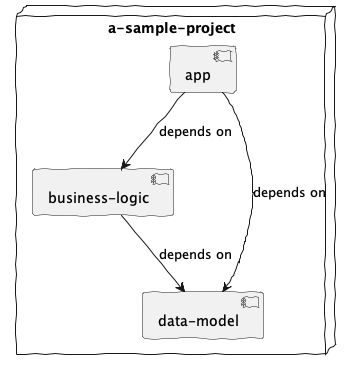
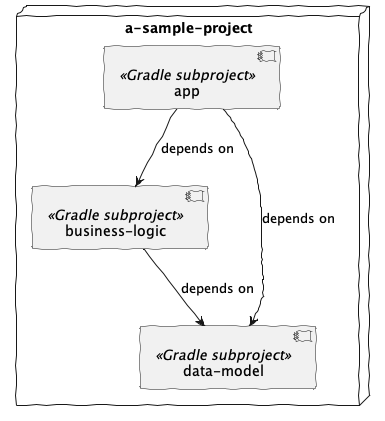
docs: add stereotypes to diagram

Changed region(s): [[0.0285, 0.0, 0.9687, 0.9811]]

diff --git a/README.md b/README.md
@@ -11,9 +11,14 @@ to 'real' projects.
 
 ## System architecture
 
-The sample project is a quite simple Gradle project named very creatively 'a-sample-project', consisting of 3 Gradle
+The sample project is a quite simple Gradle multi-project named very creatively 'a-sample-project', consisting of 3
+Gradle
 subprojects:
-app, business-logic and data-model. The
-dependency-relationship among them is the following:
+
+* app
+* business-logic
+* data-model
+
+The dependency-relationship among them is the following:
 
 ![Module dependencies](docs/components.png)
